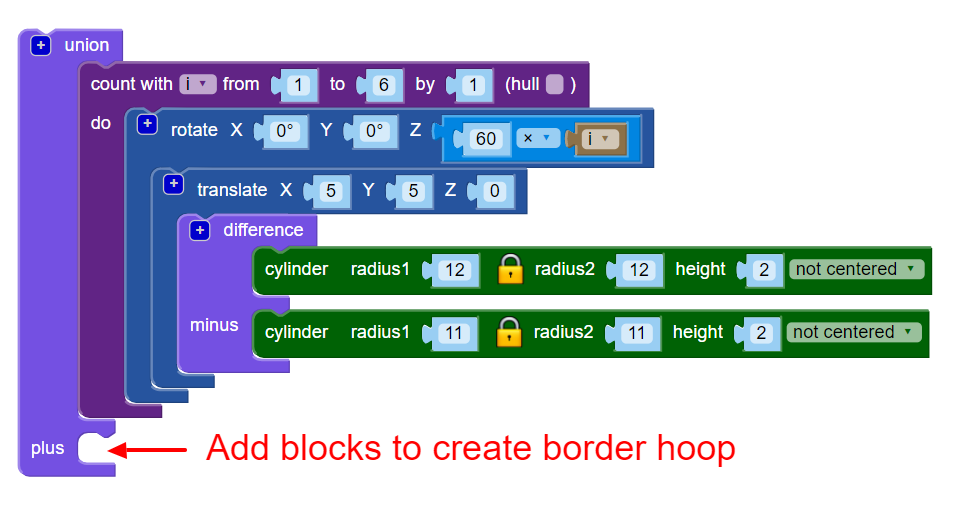
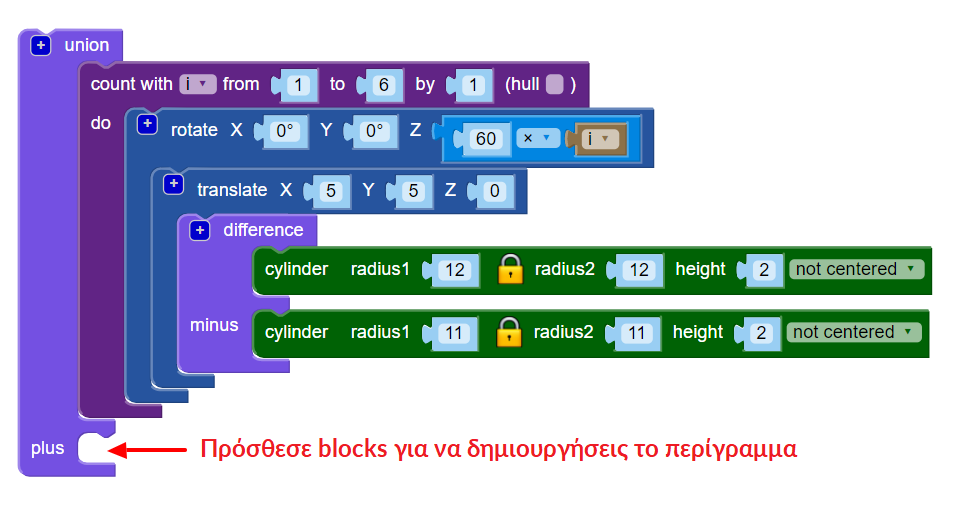
Update Greek
Corrections made in testing

Changed region(s): [[0.185, 0.8513, 0.8325, 0.91]]

diff --git a/el-GR/step_1.md b/el-GR/step_1.md
@@ -49,8 +49,8 @@ title: Τι θα μάθεις
 title: Πρόσθετες πληροφορίες για εκπαιδευτικούς
 ---
 
-Αν χρειαστεί να εκτυπώσεις αυτό το έργο, χρησιμοποίησε την [εκτυπώσιμη έκδοση](https://projects.raspberrypi.org/el-GR/projects/blockscad-pendant/print)"{:target="_blank"}.
+Αν χρειαστεί να εκτυπώσεις αυτό το έργο, χρησιμοποίησε την [εκτυπώσιμη έκδοση](https://projects.raspberrypi.org/el-GR new/projects/blockscad-pendant/print)"{:target="_blank"}.
 
-Κατέβασε τον τελικό κώδικα του έργου στο: [http://rpf.io/p/el-GR/blockscad-pendant](http://rpf.io/p/el-GR/blockscad-pendant).
+Κατέβασε τον τελικό κώδικα του έργου στο: [http://rpf.io/p/el-GR new/blockscad-pendant](http://rpf.io/p/el-GR new/blockscad-pendant).
 
 --- /collapse ---

diff --git a/el-GR/step_7.md b/el-GR/step_7.md
@@ -26,12 +26,11 @@
 
 --- /task ---
 
-
 ***
 Το έργο αυτό μεταφράστηκε από τους εθελοντές:
 
 Αλέξανδρος Ρονιώτης (Σύλλογος ΨηφίΔα)
-
 Κυριακή Ιντζεΐδου
+Μάνος Ζεάκης
 
 Χάρη στους εθελοντές, μπορούμε να δώσουμε σε ανθρώπους σε όλο τον κόσμο την ευκαιρία να μάθουν στη γλώσσα τους. Μπορείτε να μας βοηθήσετε να προσεγγίσουμε περισσότερους ανθρώπους μεταφράζοντας εθελοντικά - περισσότερες πληροφορίες στο [rpf.io/translate](https://rpf.io/translate).
